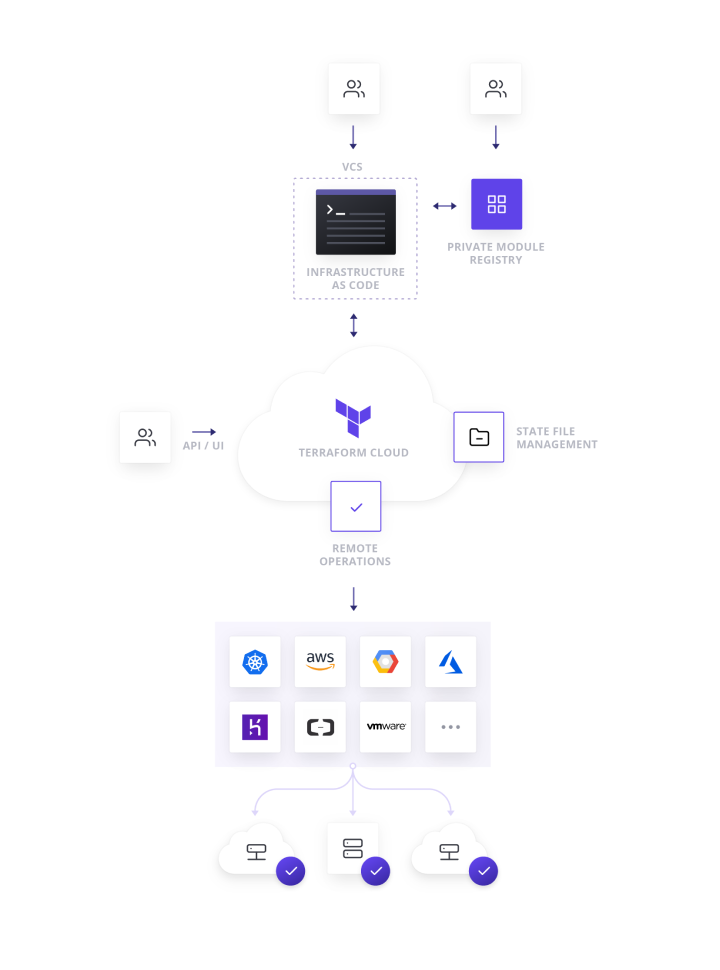
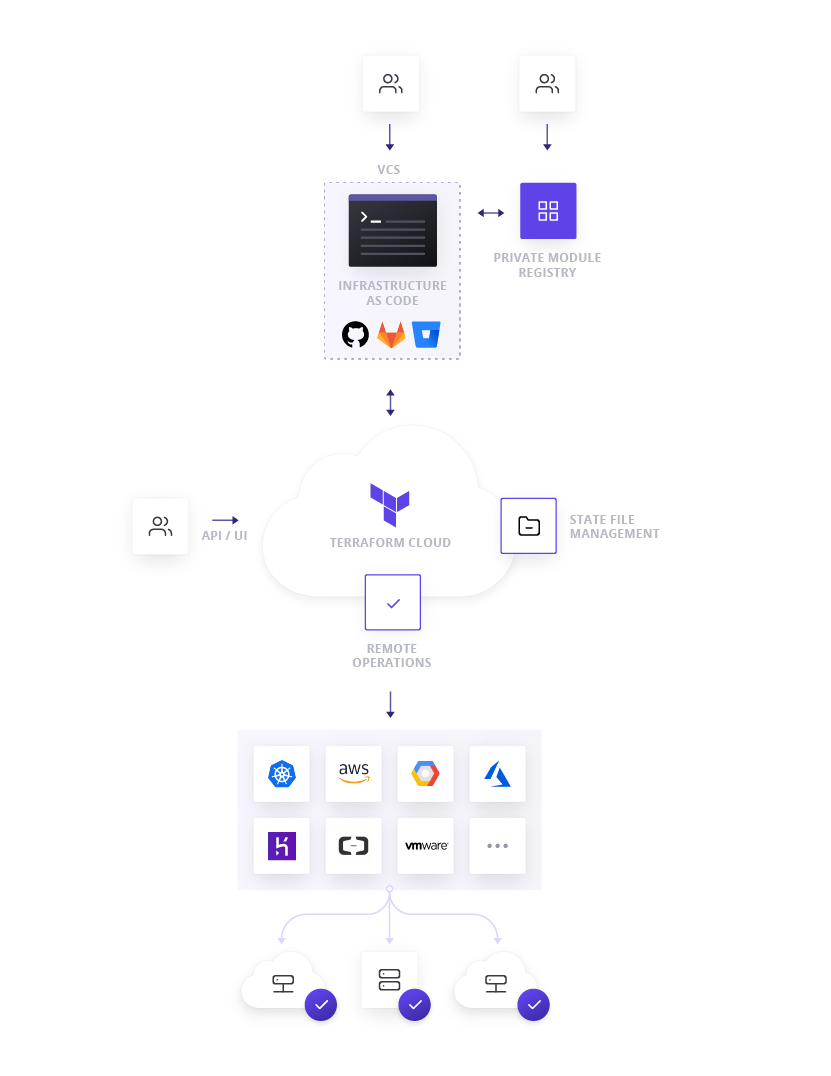
Update Homepage [Cloud] How TF Works Image (#961)
* Update Cloud HTFW image

* Fix PricingTile width on mobile + fix alt text

diff --git a/content/source/assets/stylesheets/terraform-overview/components/_pricing-tile.scss b/content/source/assets/stylesheets/terraform-overview/components/_pricing-tile.scss
@@ -25,7 +25,6 @@
       right: 12px;
       top: 12px;
       left: 12px;
-      width: calc(100% - 24px);
     }
 
     & > div {
